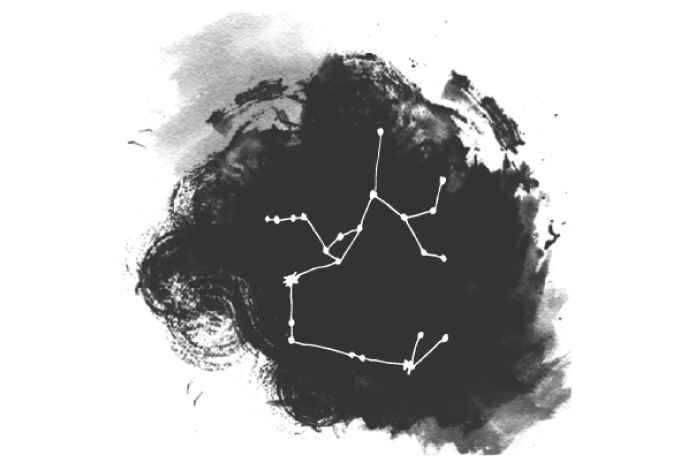
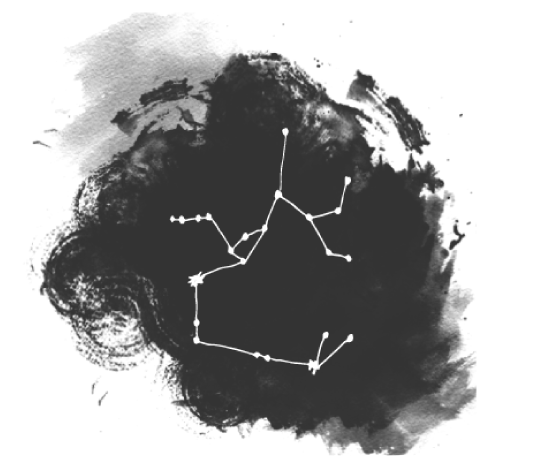
fixed look up image

diff --git a/style.css b/style.css
@@ -164,17 +164,6 @@ hr{
     border: 0;
 }
 
-/*SPECIFIC STYLE FOR LOOK UP PROJECT*/
-#look-up-details{
-	width: 300px;
-}
-
-#look-up-img{
-	width: 374px;
-    position: relative;
-    left: 44px;
-}
-
 /*FOOTER STUFF*/
 .contact a{
 	display: inline-block;
@@ -234,10 +223,6 @@ hr{
 		width:360px;
 	}
 
-	#look-up-img{
-		left:0;
-	}
-
 	.details p{
 		text-align: justify;
 	}
@@ -252,10 +237,7 @@ hr{
 	}
 }
 
-@media only screen 
-  and (min-width: 320px) 
-  and (max-width: 568px)
-  and (-webkit-min-device-pixel-ratio: 2) {
+@media only screen and (max-width: 568px){
   	
   	.about:before, .work:before, .contact:before{
 	  	-webkit-transform: skewY(-7deg);
@@ -264,7 +246,6 @@ hr{
 	    -o-transform: skewY(-7deg);
 	    transform: skewY(-7deg);
 	}
-
 
   	section{
   		padding-bottom: 30px;
@@ -320,13 +301,6 @@ hr{
 	button{
 		margin: 20px auto;
 	}
-
-	#look-up-img{
-		width:400px;
-		left:-25px;
-	}
-
-
 }
 
 

diff --git a/index.html b/index.html
@@ -97,11 +97,11 @@
 			</article>
 
 			<article>
-				<div id="look-up-details" class="short-description">
+				<div class="short-description">
 					<h3>LOOK UP</h3>
 					<p>cosmos and astrological themed wiki</p>
 				</div>
-				<img id="look-up-img" src="assets/projects/lookup/main.png">
+				<img src="assets/projects/lookup/main.png">
 
 				<div class="details">
 					<p>I designed this wiki to allow users to search for relevant information about their birthdays. Specifically, a user can enter their birth month and day and discover their zodiac, the largest star in their zodiological constellation, and the planet associated with their birth month. 
